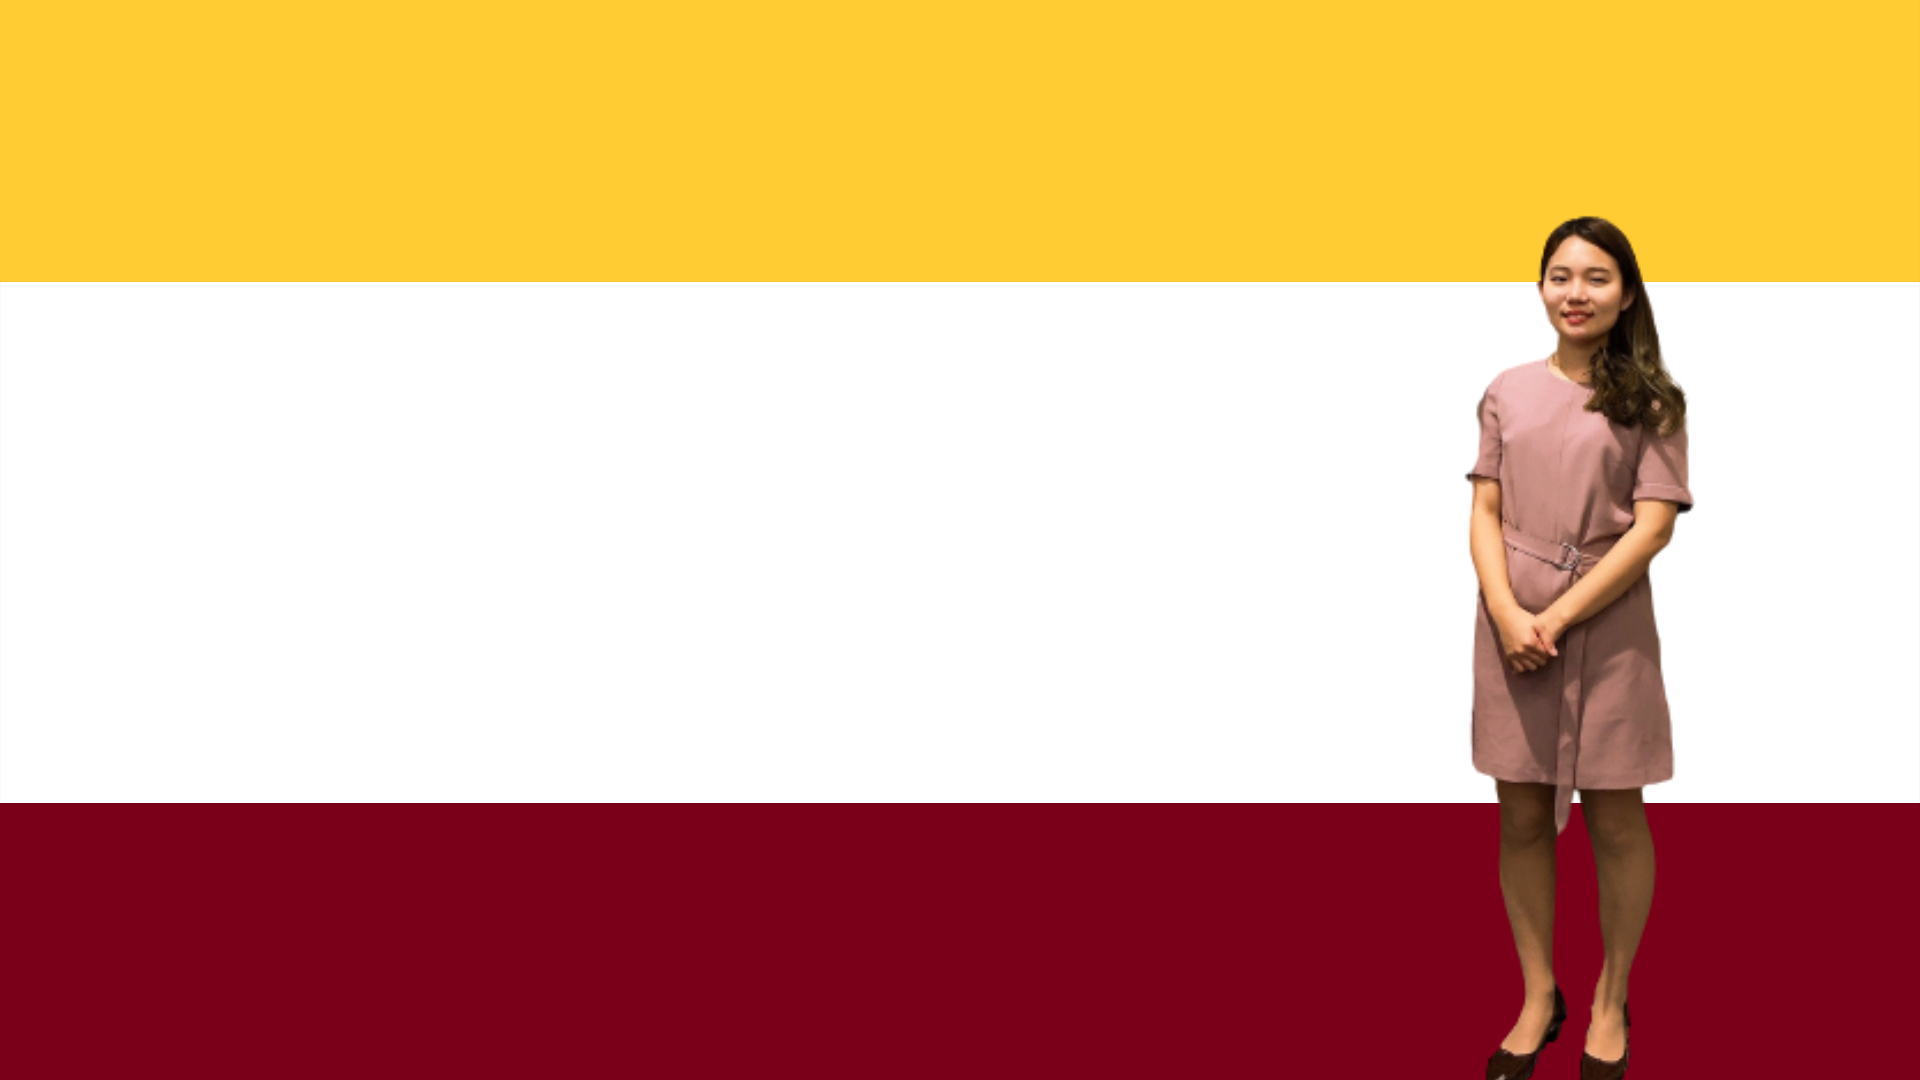
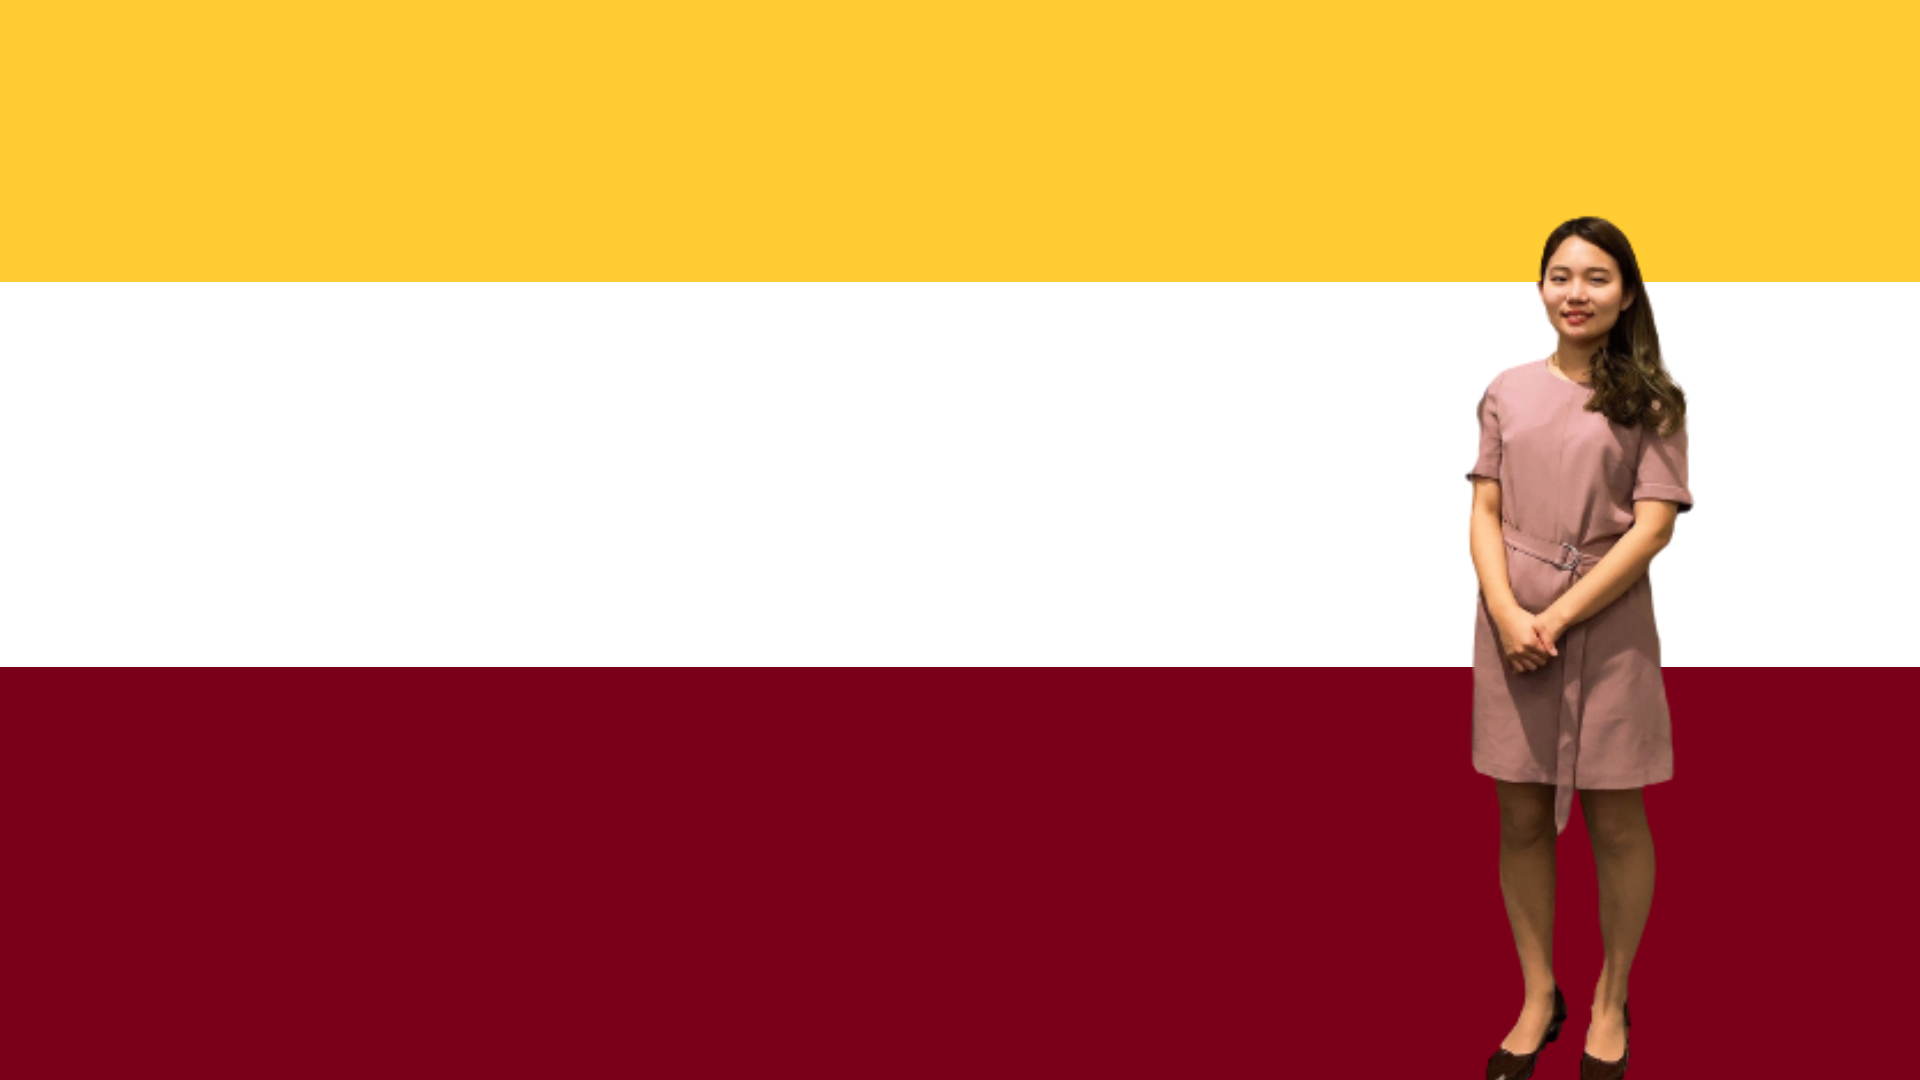
change cover

Changed region(s): [[0.0, 0.6111, 0.7812, 0.7639], [0.8438, 0.6111, 1.0, 0.7639]]

diff --git a/assets/css/style.css b/assets/css/style.css
@@ -375,7 +375,7 @@ section {
 
 #about {
   width: 100%;
-  height: 60vh;
+  height: 80vh;
   background: url("../img/portfolio/yellow.png") top right no-repeat;
   background-size: cover;
   position: relative;
